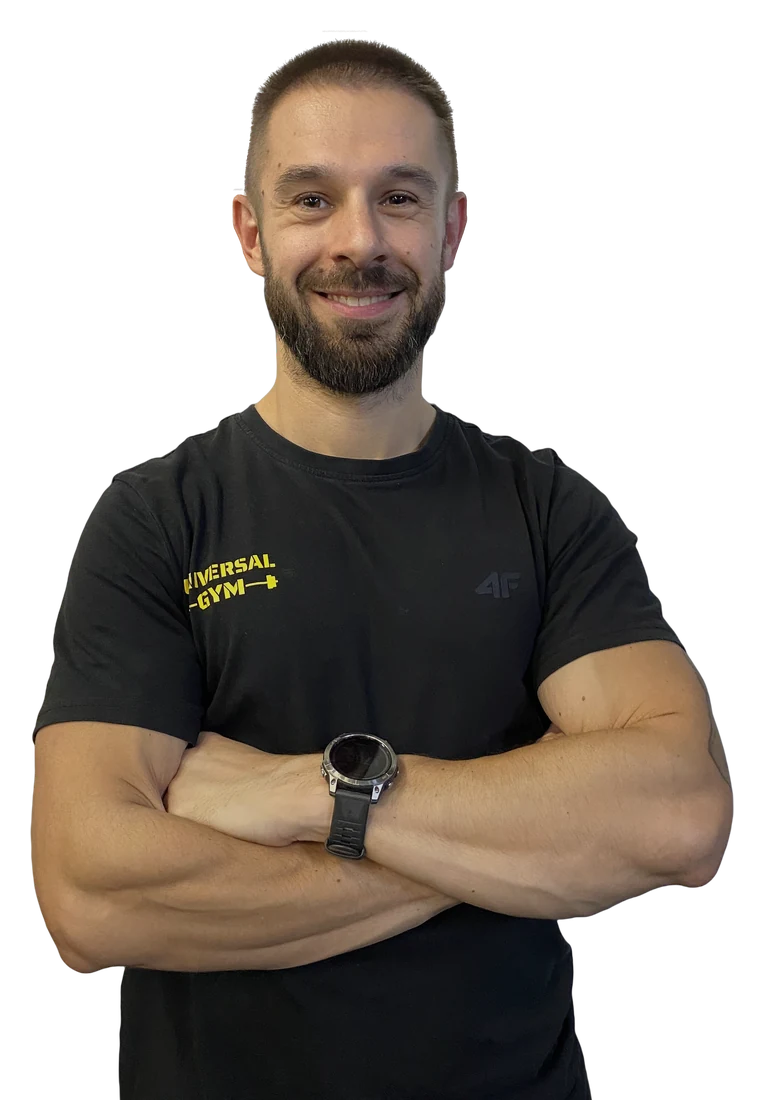
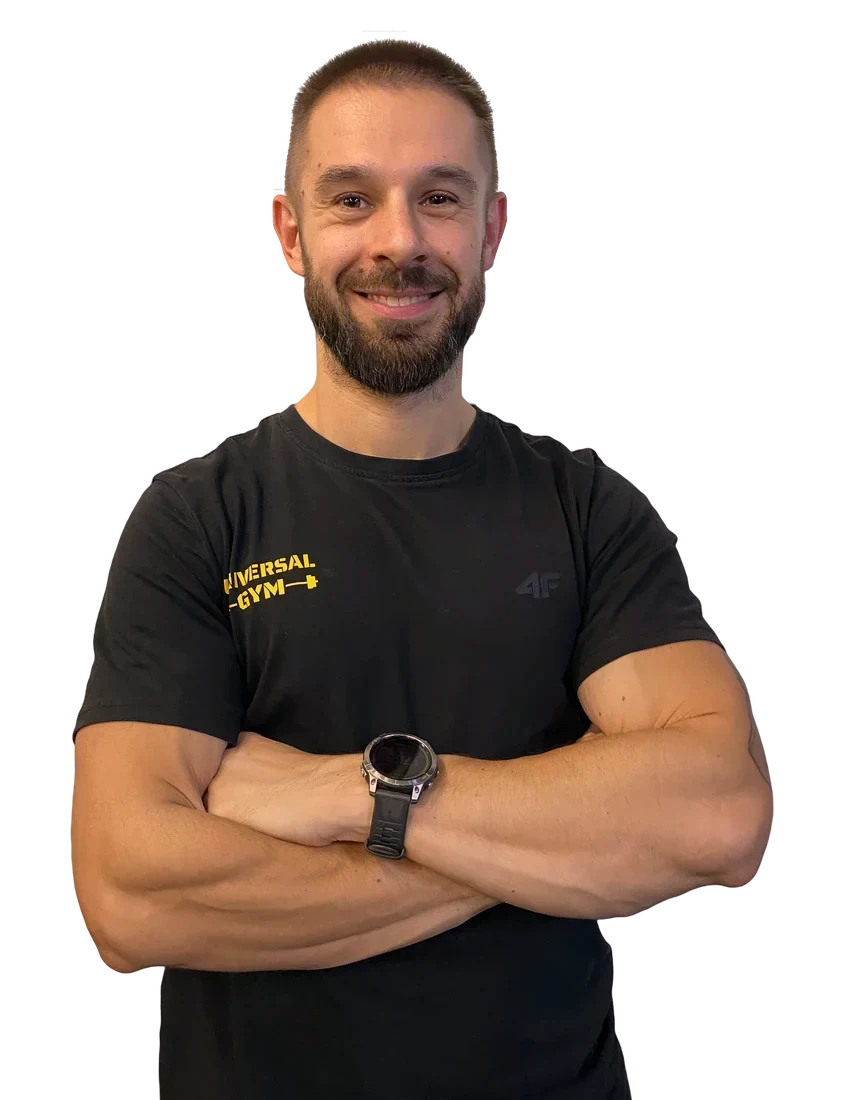
change photos and edit them

diff --git a/docs/index.html b/docs/index.html
@@ -938,7 +938,7 @@
 					<div class="trainers" id="trainers-track" tabindex="0" aria-label="Tréneri" data-i18n-attr="aria-label:nav.trainers">
 						<div class="trainer-wrap">
 							<figure class="trainer-photo">
-								<a href="zdudasova.html" tabindex="-1" aria-hidden="true"><img src="assets/img/trainers/zdudasova_1.webp" alt="" decoding="async" /></a>
+								<a href="zdudasova.html" tabindex="-1" aria-hidden="true"><img src="assets/img/trainers/zdudasova_1.webp?v=2" alt="" decoding="async" /></a>
 							</figure>
 							<h3 class="trainer-name"><a href="zdudasova.html">Zuzana Dudášová</a> <small class="trainer-role" data-i18n="zdudasova.role">Silovo-kondičná trénerka</small></h3>
 						</div>
@@ -950,7 +950,7 @@
 						</div>
 						<div class="trainer-wrap">
 							<figure class="trainer-photo">
-								<a href="rjuracka.html" tabindex="-1" aria-hidden="true"><img src="assets/img/trainers/rjuracska_1.webp" alt="" decoding="async" /></a>
+								<a href="rjuracka.html" tabindex="-1" aria-hidden="true"><img src="assets/img/trainers/rjuracska_1.webp?v=3" alt="" decoding="async" /></a>
 							</figure>
 							<h3 class="trainer-name"><a href="rjuracka.html">Robert Juracska</a> <small class="trainer-role" data-i18n="rjuracka.role">Tréner</small></h3>
 						</div>

diff --git a/docs/orotschein.html b/docs/orotschein.html
@@ -151,9 +151,9 @@
 
 					<figure class="tp-photo">
 						<img
-							src="assets/img/trainers/orothschein_2.webp"
+							src="assets/img/trainers/orothschein_2.webp?v=2"
 							alt="Oliver Rothschein"
-							width="764"
+							width="845"
 							height="1100"
 						/>
 					</figure>

diff --git a/docs/zdudasova.html b/docs/zdudasova.html
@@ -153,7 +153,7 @@
 						<img
 							src="assets/img/trainers/zdudasova_2.webp"
 							alt="Zuzana Dudášová"
-							width="774"
+							width="845"
 							height="1100"
 						/>
 					</figure>

diff --git a/docs/rjuracka.html b/docs/rjuracka.html
@@ -153,7 +153,7 @@
 						<img
 							src="assets/img/trainers/rjuracska_2.webp"
 							alt="Robert Juracska"
-							width="723"
+							width="845"
 							height="1100"
 						/>
 					</figure>

diff --git a/docs/afazekas.html b/docs/afazekas.html
@@ -153,7 +153,7 @@
 						<img
 							src="assets/img/trainers/afazekas_2.webp"
 							alt="Adrián Fazekas"
-							width="753"
+							width="845"
 							height="1100"
 						/>
 					</figure>

diff --git a/docs/mbarczi.html b/docs/mbarczi.html
@@ -153,7 +153,7 @@
 						<img
 							src="assets/img/trainers/mbarczi_2.webp"
 							alt="Márk Barczi"
-							width="802"
+							width="845"
 							height="1100"
 						/>
 					</figure>
